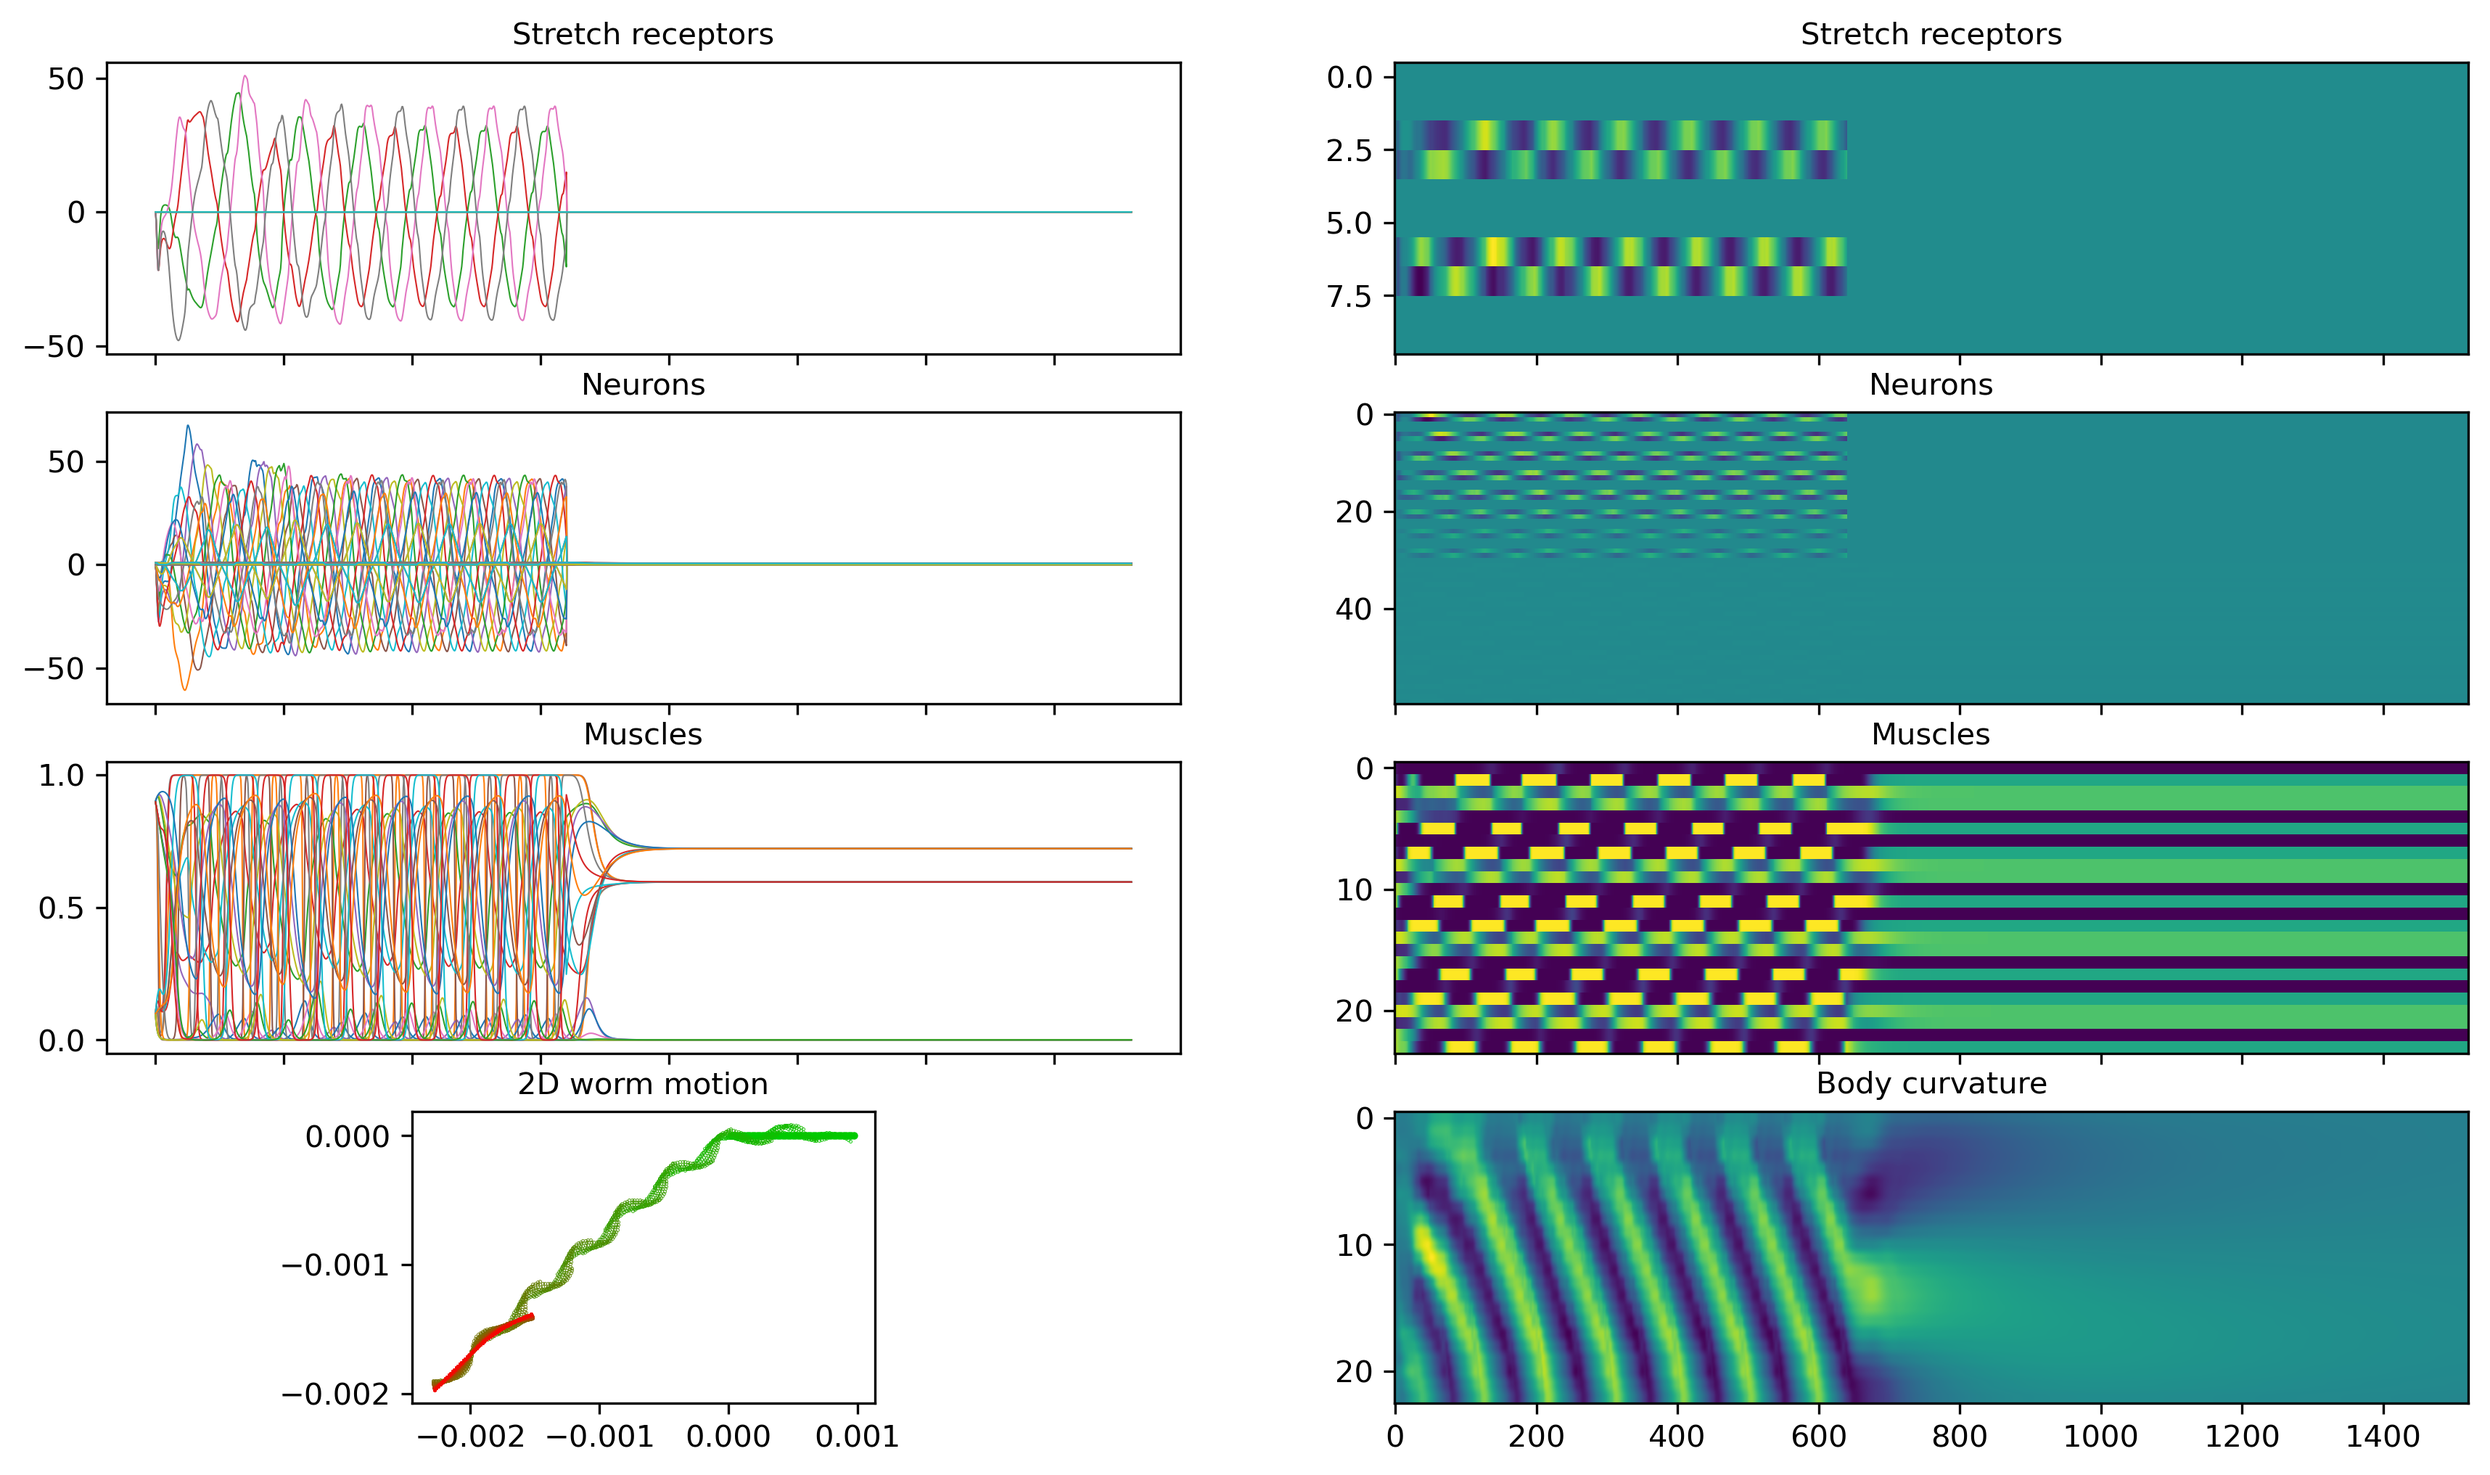
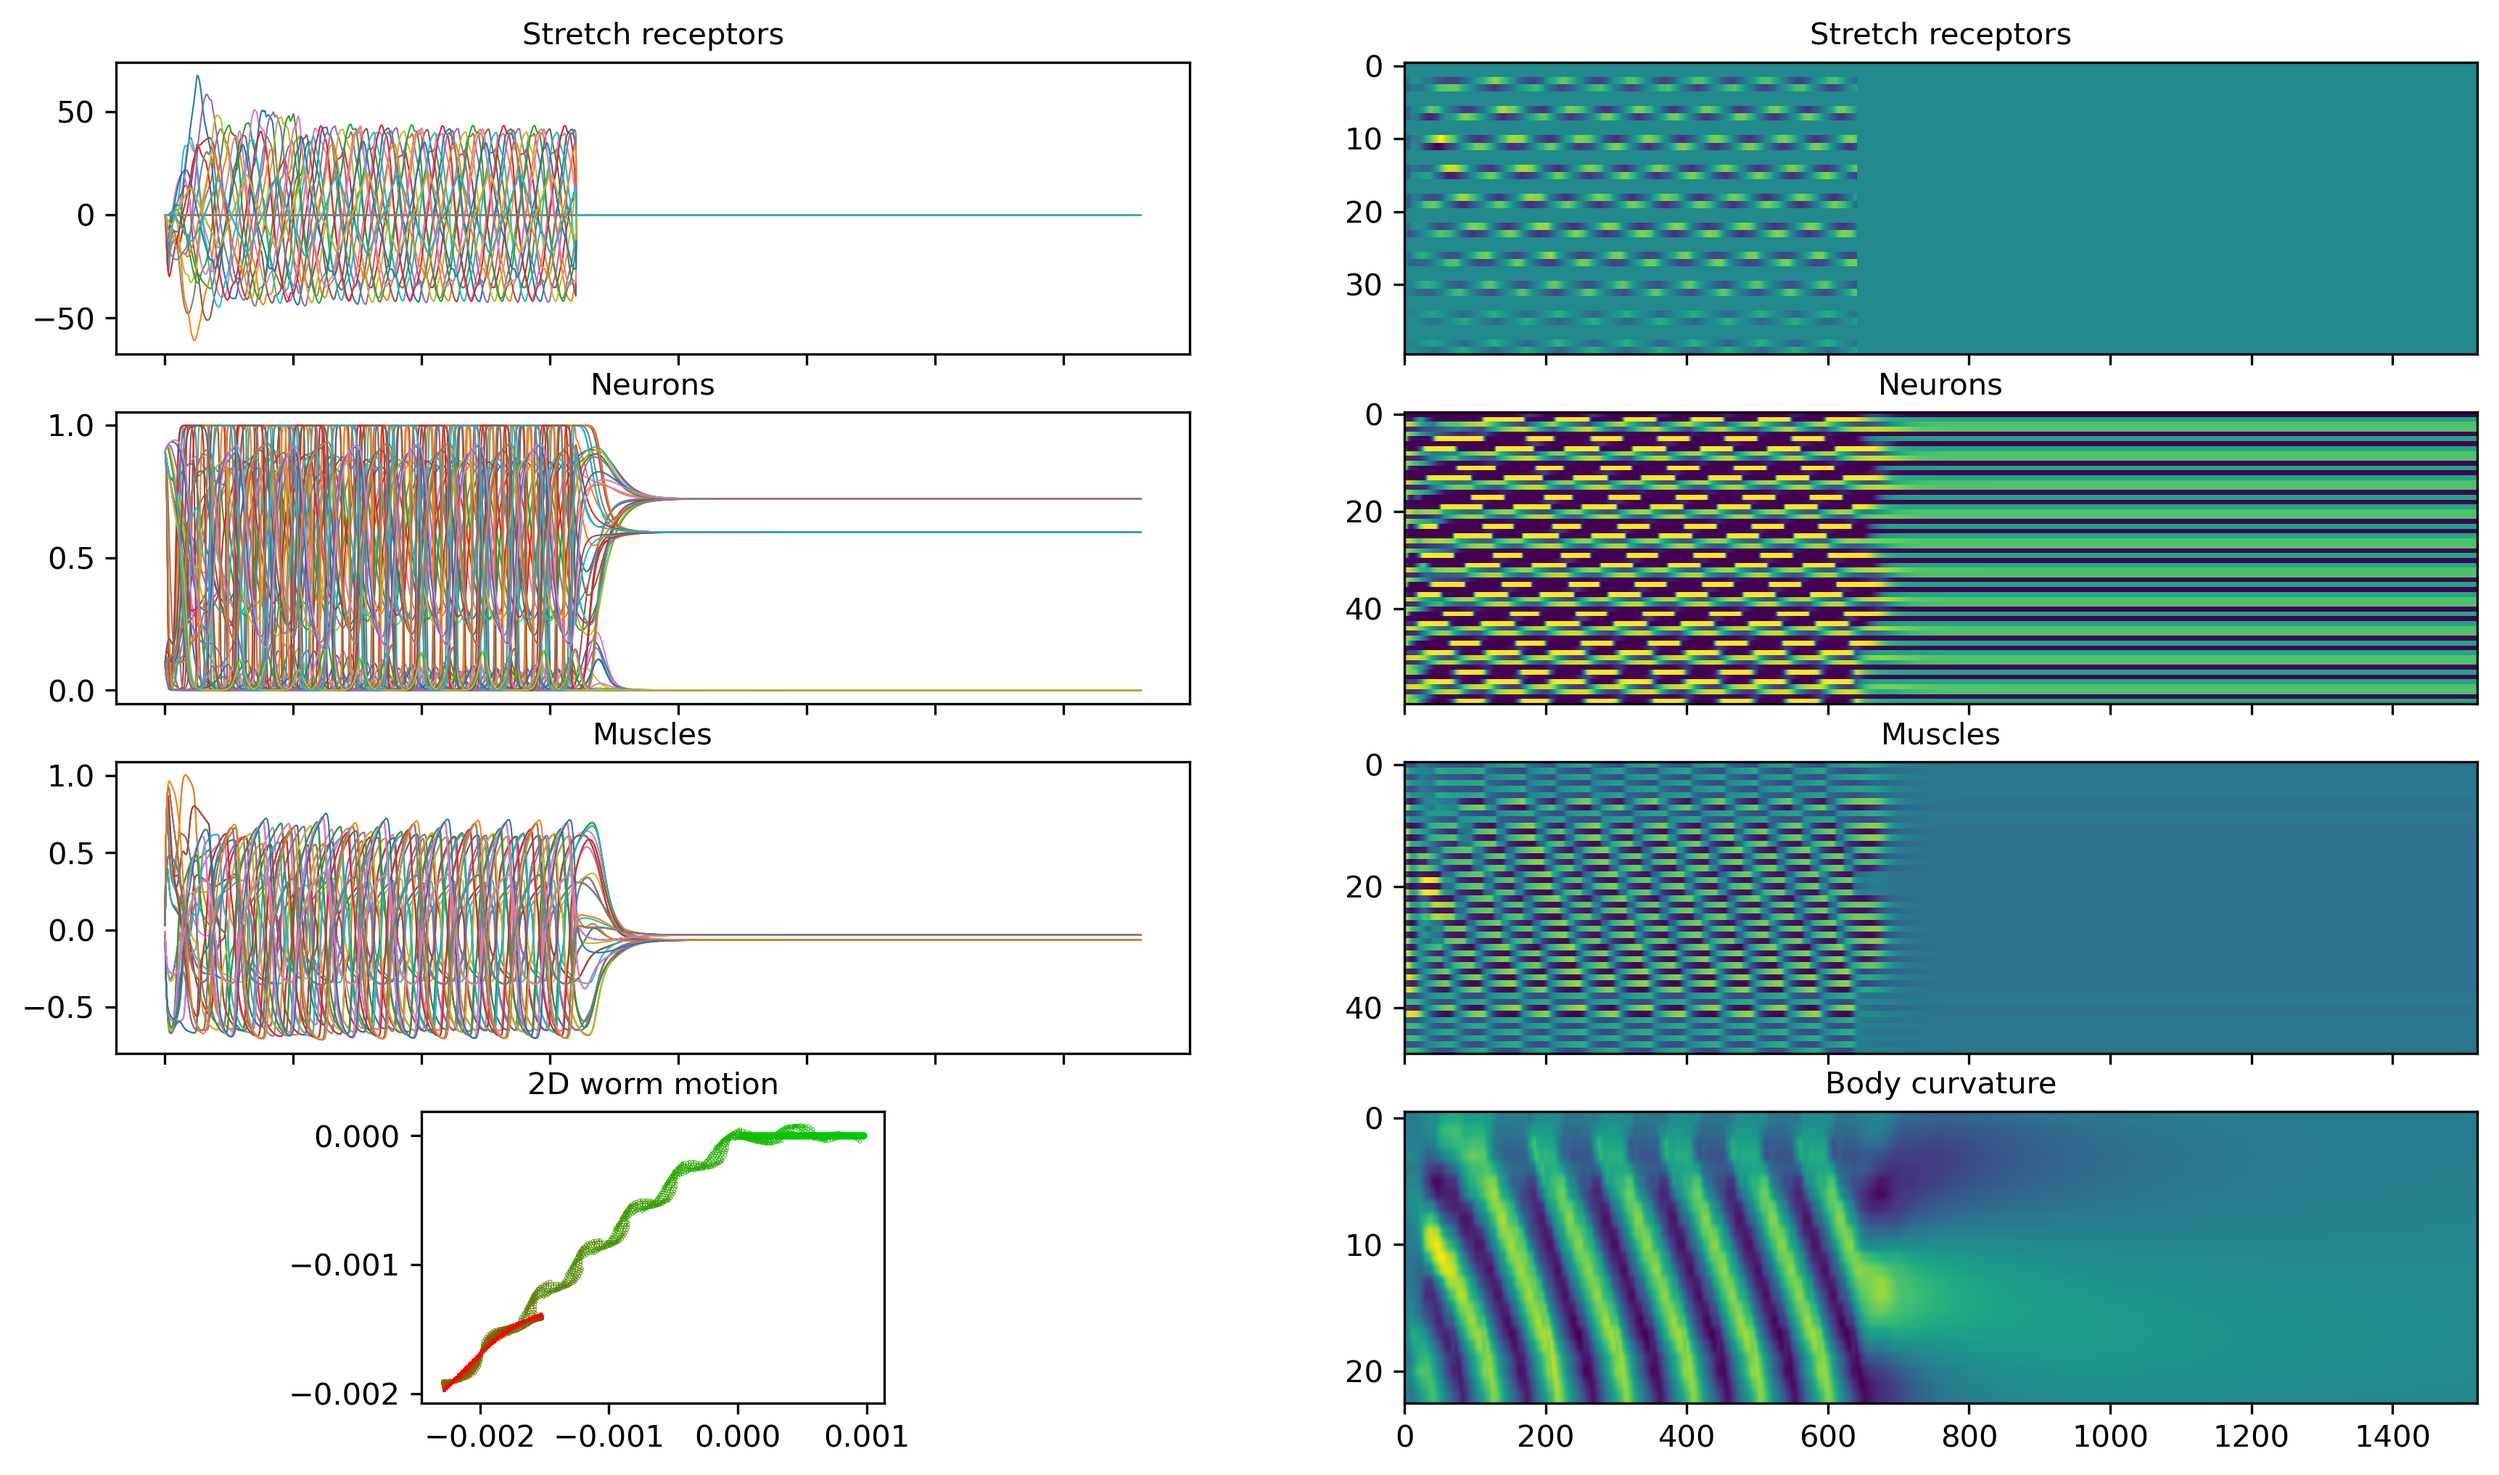
fixed plotting bug

diff --git a/load_data.py b/load_data.py
@@ -11,10 +11,12 @@ import helper_funcs as hf
 
 
 def reload_single_run(show_plot=True, verbose=False):
-    N_muscles = 24  # Number of muscles alongside the body
+    N_muscles_perside = 24  # Number of muscles alongside the body
+    N_muscles = N_muscles_perside * 2
     N_units = 10  # Number of neural units in VNC
     N_neuronsperunit = 6  # Number of neurons in a VNC neural unit (6 neurons)
-    N_stretchrec = 10  # Number of stretch receptors
+    N_stretchrec_units = 10  # Number of stretch receptors
+    N_stretchrec =  N_stretchrec_units * 4 # Number of stretch receptors
 
     N_neurons = N_neuronsperunit * N_units
 
